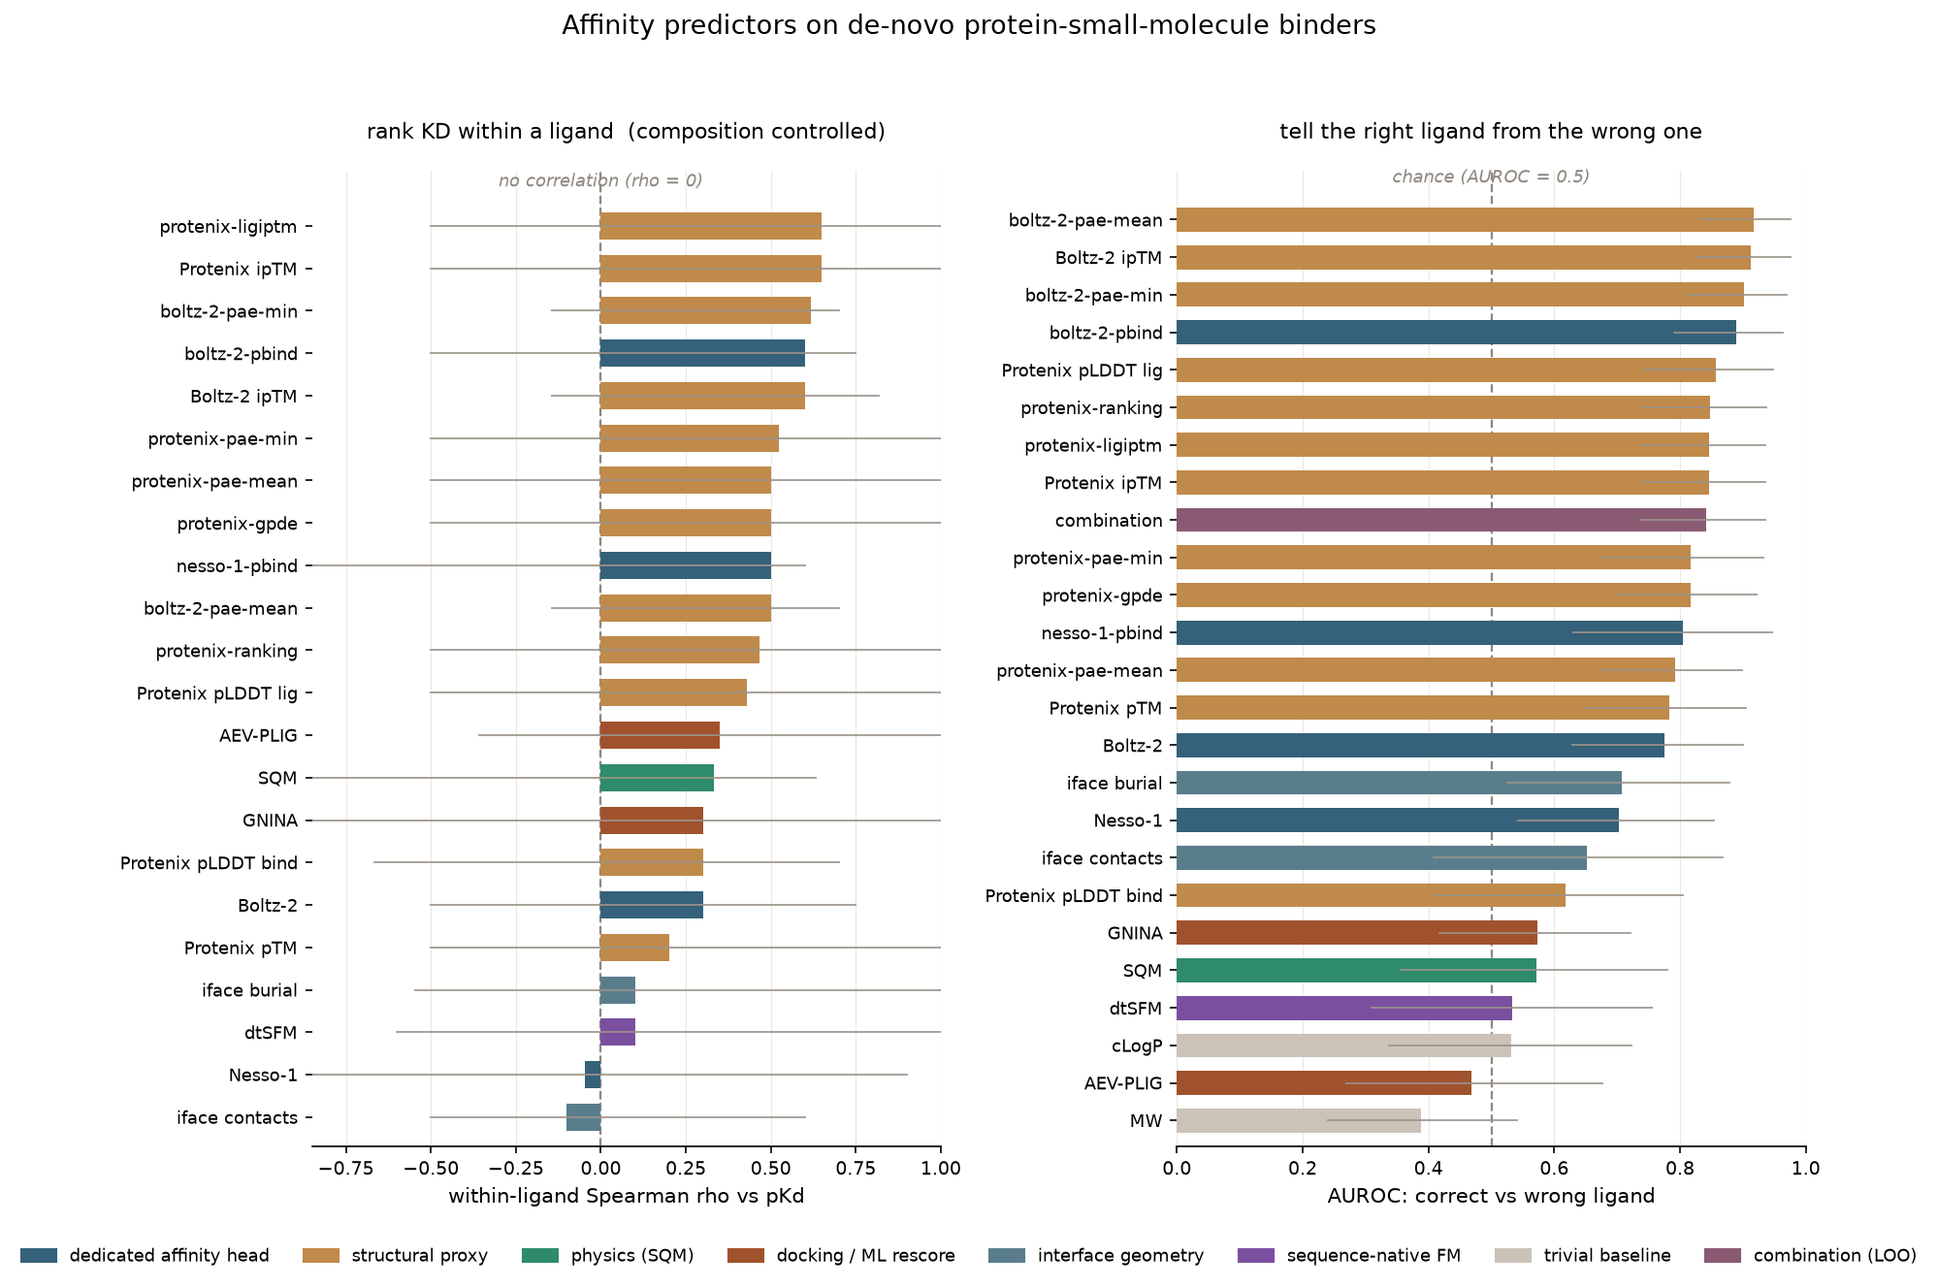
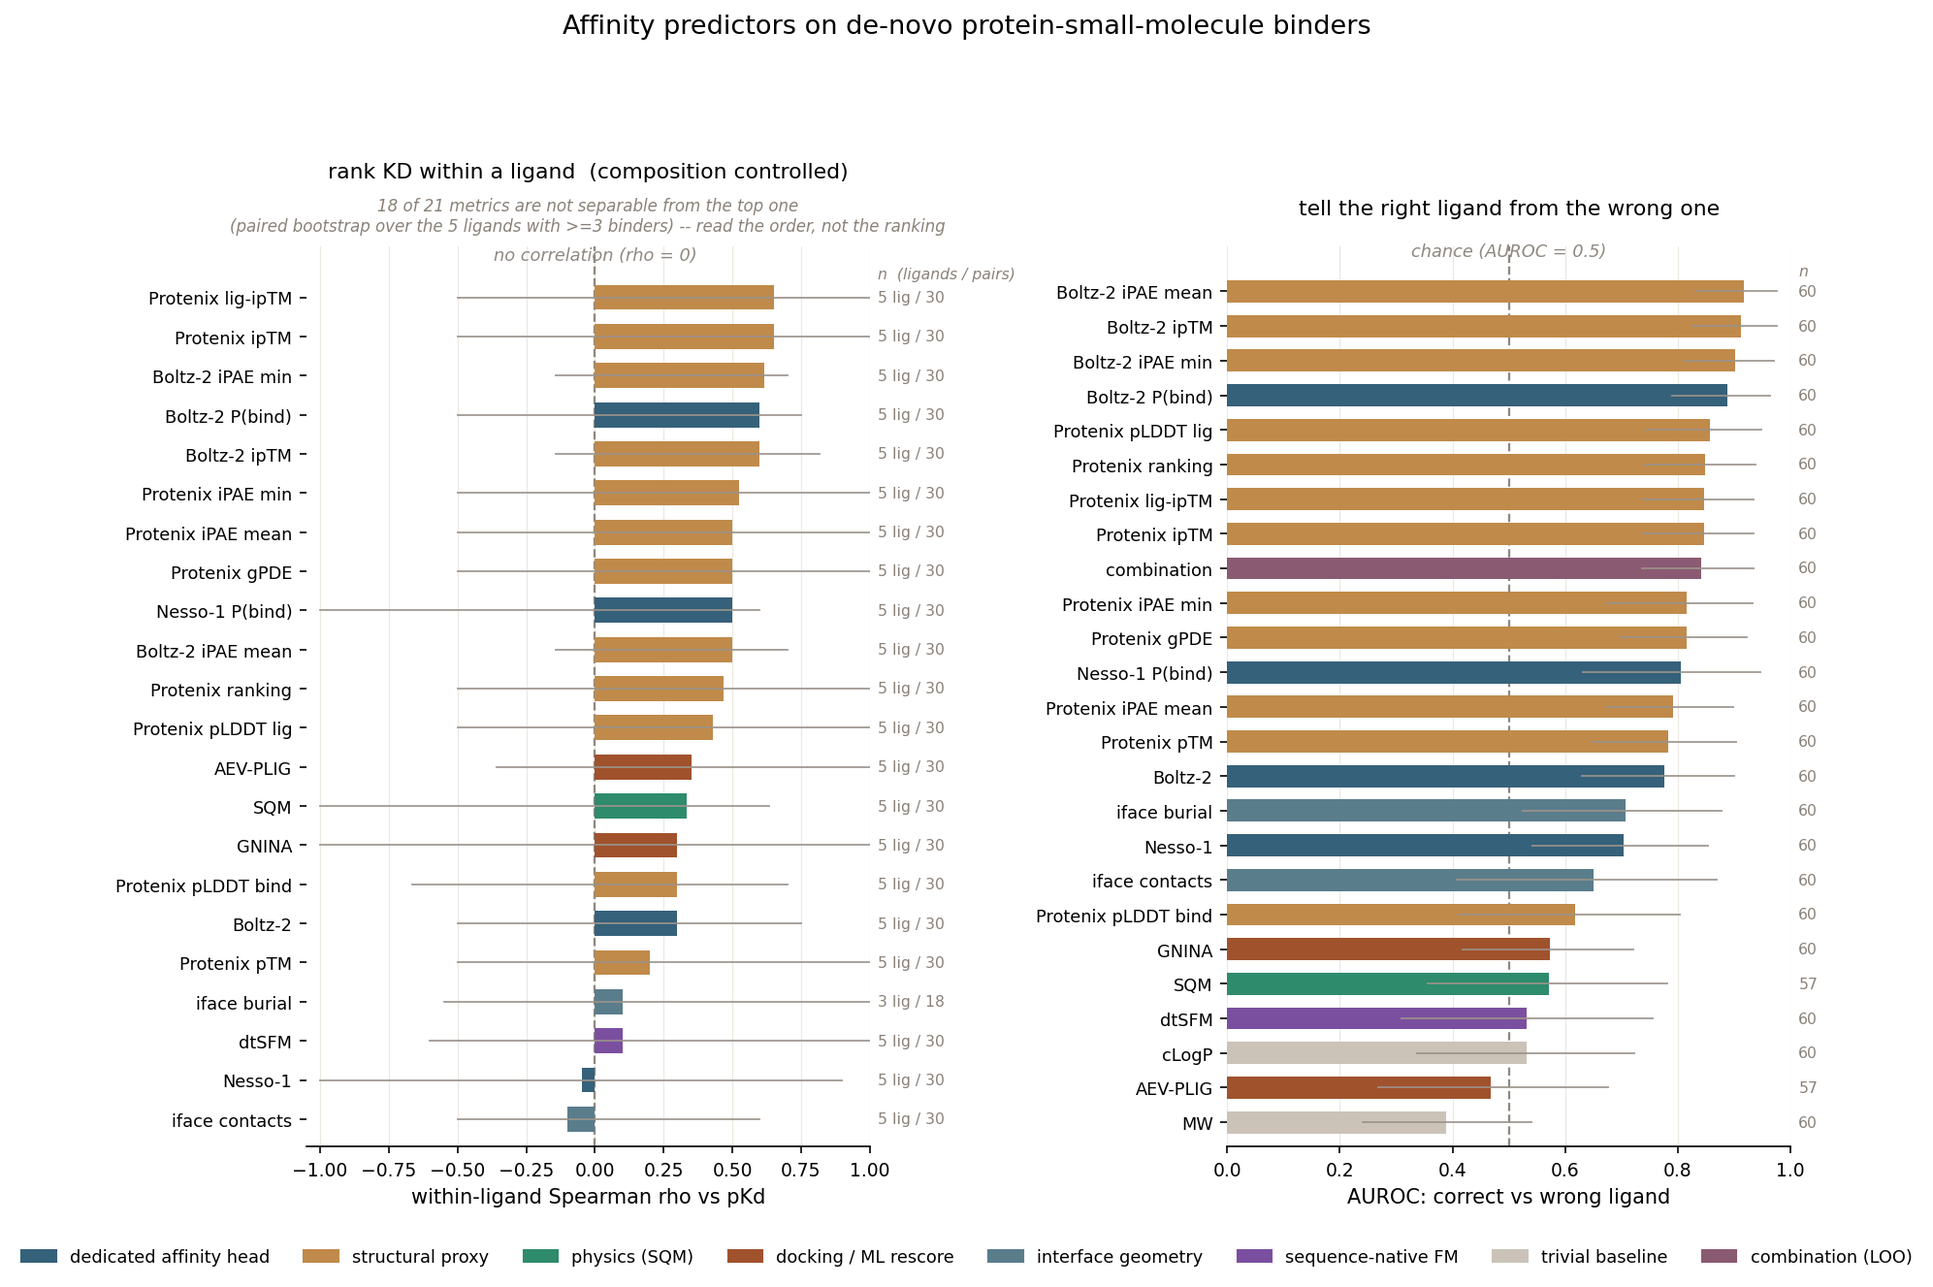
Report n and separability, and fix a positional-pairing bug
The within-ligand median rests on 5 ligands / 30 pairs, not the 60 pairs in
the benchmark, and the figure did not say so. Every bar now carries its n,
score.py prints n_lig and n_pairs, and both state that a ligand with fewer
than 3 binders cannot support a rank and is dropped.

New separability table: a paired bootstrap over ligands shows 18 of 21
metrics are not distinguishable from the top one, so the left panel is an
ordering of families, not a ranking of metrics. The figure prints that count
so it cannot drift from the CLI.

While writing it, the first version paired two metrics by list position.
interface-ligburial has 3 ligand groups against the best metric's 5, so it
was being compared on 5 slots of a 3-element list -- different ligands, no
error raised. per_ligand_rho now keys by ligand and separability intersects,
which moves that delta from +0.55 to +0.60. A test pins the keying.

Also: widen the left axis to -1.05, since CIs reaching rho = -1 were being
clipped and understating the spread, and finish the PRETTY name map so the
panel stops mixing display names with raw column names.

diff --git a/scripts/make_figure.py b/scripts/make_figure.py
@@ -17,6 +17,7 @@ from score import (
     bootstrap_ci,
     combine_loo,
     load,
+    per_ligand_rho,
     within_ligand_rho,
 )
 
@@ -42,15 +43,46 @@ PRETTY = {"boltz-2": "Boltz-2", "nesso-1": "Nesso-1", "boltz-2-iptm": "Boltz-2 i
           "rowan-sqm": "SQM", "rowan-gnina": "GNINA", "rowan-aevplig": "AEV-PLIG",
           "interface-ncontacts": "iface contacts", "interface-ligburial": "iface burial",
           "protenix-ptm": "Protenix pTM", "protenix-plddt-binder": "Protenix pLDDT bind",
-          "protenix-plddt-ligand": "Protenix pLDDT lig"}
+          "protenix-plddt-ligand": "Protenix pLDDT lig",
+          "boltz-2-pbind": "Boltz-2 P(bind)", "nesso-1-pbind": "Nesso-1 P(bind)",
+          "boltz-2-pae-min": "Boltz-2 iPAE min", "boltz-2-pae-mean": "Boltz-2 iPAE mean",
+          "protenix-pae-min": "Protenix iPAE min", "protenix-pae-mean": "Protenix iPAE mean",
+          "protenix-ligiptm": "Protenix lig-ipTM", "protenix-gpde": "Protenix gPDE",
+          "protenix-ranking": "Protenix ranking"}
+
+
+def not_separable(rows, methods, kmin=3, n_boot=4000):
+    """How many metrics the top one is NOT distinguishable from (paired bootstrap over the shared
+    ligands). Mirrors score.py's separability table so the figure cannot drift from the CLI."""
+    import random
+    import statistics
+    per_metric = {m: per_ligand_rho(rows, m, kmin)[0] for m in methods}
+    per_metric = {m: p for m, p in per_metric.items() if len(p) >= 2}
+    best = max(per_metric, key=lambda m: statistics.median(per_metric[m].values()))
+    bper = per_metric[best]
+    n_ns = 0
+    for m, per in per_metric.items():
+        if m == best:
+            continue
+        shared = sorted(set(per) & set(bper))
+        if len(shared) < 2:
+            continue
+        bv = [bper[k] for k in shared]; mv = [per[k] for k in shared]
+        rng = random.Random(0); k = len(shared)
+        d = sorted(statistics.median([bv[i] for i in idx]) - statistics.median([mv[i] for i in idx])
+                   for idx in ([rng.randrange(k) for _ in range(k)] for _ in range(n_boot)))
+        if d[int(0.025 * n_boot)] <= 0:
+            n_ns += 1
+    return n_ns, len(per_metric) - 1, len(bper)
 
 
 def _wlig_ci(per, n):
     import random
     import statistics
     rng = random.Random(0)
-    boots = sorted(statistics.median([per[rng.randrange(n)] for _ in range(n)]) for _ in range(2000))
-    return statistics.median(per), boots[int(0.025 * len(boots))], boots[int(0.975 * len(boots))]
+    v = list(per.values()) if isinstance(per, dict) else list(per)
+    boots = sorted(statistics.median([v[rng.randrange(n)] for _ in range(n)]) for _ in range(2000))
+    return statistics.median(v), boots[int(0.025 * len(boots))], boots[int(0.975 * len(boots))]
 
 
 def stats(rows, methods):
@@ -60,24 +92,30 @@ def stats(rows, methods):
     wlig, spec = [], []
     for m in methods:
         sgn = -1 if m in LOWER_BETTER else 1
-        med, per, ng = within_ligand_rho(rows, m)
+        med, per, ng, npairs = within_ligand_rho(rows, m)
         if med is not None:
-            wlig.append((PRETTY.get(m, m), *_wlig_ci(per, ng), CAT[m]))
+            wlig.append((PRETTY.get(m, m), *_wlig_ci(per, ng), CAT[m], f"{ng} lig / {npairs}"))
         sx, sl = zip(*[(sgn * r[m], r["is_binder"]) for r in rows if r.get(m) is not None], strict=True)
         spec.append((PRETTY.get(m, m), auroc(list(sx), list(sl)),
-                     *bootstrap_ci(list(sx), list(sl), auroc), CAT[m]))
+                     *bootstrap_ci(list(sx), list(sl), auroc), CAT[m], f"{len(sx)}"))
     (_, _), (sp, sy) = combine_loo(rows)
-    spec.append(("combination", auroc(sp, sy), *bootstrap_ci(sp, sy, auroc), "combo"))
-    return wlig, spec
+    spec.append(("combination", auroc(sp, sy), *bootstrap_ci(sp, sy, auroc), "combo", f"{len(sy)}"))
+    return wlig, spec, not_separable(rows, methods)
 
 
-def bars(ax, data, ref, ref_label, xlabel, xlim):
+def bars(ax, data, ref, ref_label, xlabel, xlim, n_header):
     data.sort(key=lambda t: t[1])
     n = len(data)
     ax.grid(axis="x", color="#ece8e2", lw=0.6, zorder=0)
-    for y, (_lab, v, lo, hi, cat) in enumerate(data):
+    for y, (_lab, v, lo, hi, cat, nlab) in enumerate(data):
         ax.barh(y, v, color=COL[cat], height=0.64, zorder=3)
         ax.plot([lo, hi], [y, y], color=WHISK, lw=0.9, alpha=0.9, zorder=4)
+        # the n behind each bar, in the plot's own x units so it never collides with the whisker
+        ax.annotate(nlab, xy=(xlim[1], y), xytext=(4, 0), textcoords="offset points",
+                    ha="left", va="center", fontsize=7.5, color="#8a8178", annotation_clip=False)
+    ax.annotate(n_header, xy=(xlim[1], n - 0.4), xytext=(4, 0), textcoords="offset points",
+                ha="left", va="center", fontsize=7.5, color="#8a8178", fontstyle="italic",
+                annotation_clip=False)
     ax.axvline(ref, ls="--", lw=1.1, color=REF, zorder=2)
     ax.annotate(ref_label, xy=(ref, n - 0.5), xytext=(0, 7), textcoords="offset points",
                 ha="center", va="bottom", fontsize=8.5, color=REF, fontstyle="italic")
@@ -89,11 +127,19 @@ def bars(ax, data, ref, ref_label, xlabel, xlim):
         ax.spines[s].set_visible(False)
 
 
-def render(wlig, spec, out, height):
+def render(wlig, spec, ns, out, height):
     fig, (a, b) = plt.subplots(1, 2, figsize=(12, height))
-    bars(a, wlig, 0.0, "no correlation (rho = 0)", "within-ligand Spearman rho vs pKd", (-0.85, 1.0))
-    bars(b, spec, 0.5, "chance (AUROC = 0.5)", "AUROC: correct vs wrong ligand", (0.0, 1.0))
-    a.set_title("rank KD within a ligand  (composition controlled)", fontsize=10.5, pad=16)
+    # -1.05 not -0.85: several CIs reach rho = -1, and a clipped whisker understates the spread.
+    bars(a, wlig, 0.0, "no correlation (rho = 0)", "within-ligand Spearman rho vs pKd",
+         (-1.05, 1.0), "n  (ligands / pairs)")
+    bars(b, spec, 0.5, "chance (AUROC = 0.5)", "AUROC: correct vs wrong ligand", (0.0, 1.0), "n")
+    a.set_title("rank KD within a ligand  (composition controlled)", fontsize=10.5, pad=34)
+    n_ns, n_cmp, n_lig = ns
+    a.annotate(f"{n_ns} of {n_cmp} metrics are not separable from the top one\n"
+               f"(paired bootstrap over the {n_lig} ligands with >=3 binders) -- read the order, "
+               "not the ranking",
+               xy=(0.5, 1.0), xycoords="axes fraction", xytext=(0, 6), textcoords="offset points",
+               ha="center", va="bottom", fontsize=8, color="#8a8178", fontstyle="italic")
     b.set_title("tell the right ligand from the wrong one", fontsize=10.5, pad=16)
     present = {d[4] for d in spec}
     cats = [c for c in ("aff", "prox", "phys", "dock", "iface", "seq", "base", "combo") if c in present]
@@ -101,7 +147,7 @@ def render(wlig, spec, out, height):
     fig.legend(handles, [LABEL[c] for c in cats], fontsize=8.5, loc="lower center",
                ncol=len(cats), frameon=False, bbox_to_anchor=(0.5, 0.0))
     fig.suptitle("Affinity predictors on de-novo protein-small-molecule binders", fontsize=13, y=0.99)
-    fig.tight_layout(rect=(0, 0.04, 1, 0.96))
+    fig.tight_layout(rect=(0, 0.04, 1, 0.93))
     fig.savefig(out, dpi=150, bbox_inches="tight")
     print("saved", out)
 

diff --git a/scripts/score.py b/scripts/score.py
@@ -102,22 +102,34 @@ def regression(rows, methods):
         print(f"{m:20s}{f'{rho:+.2f} [{lo:+.2f},{up:+.2f}]':>22s}{sgn * pearson(xs, ys):>+9.2f}{rm:>7s}")
 
 
-def within_ligand_rho(rows, m, kmin=3):
-    """Per-ligand Spearman(metric, pKd) among the de-novo proteins binding that ligand, then the
-    median across ligand groups. Controls for ligand composition: a ligand-only property (cLogP, MW)
-    is constant within a group, so it drops out. Returns (median, [per-group rho], n_groups)."""
+def per_ligand_rho(rows, m, kmin=3):
+    """{ligand: Spearman(metric, pKd)} over the de-novo proteins binding that ligand, plus the
+    pair count. Keyed by ligand, not positional, because two metrics are not scored on the same
+    ligand set -- pairing them by list position silently compares different ligands."""
     import collections
-    import statistics
     sgn = -1 if m in LOWER_BETTER else 1
     groups = collections.defaultdict(list)
     for r in rows:
         if r["is_binder"] == 1 and r["pKd"] is not None and r.get(m) is not None:
             groups[r["ligand"]].append((sgn * r[m], r["pKd"]))
-    per = [spearman([x for x, _ in g], [y for _, y in g])
-           for g in groups.values() if len(g) >= kmin and len({x for x, _ in g}) > 1]
+    used = {k: g for k, g in groups.items()
+            if len(g) >= kmin and len({x for x, _ in g}) > 1}
+    per = {k: spearman([x for x, _ in g], [y for _, y in g]) for k, g in used.items()}
+    return per, sum(len(g) for g in used.values())
+
+
+def within_ligand_rho(rows, m, kmin=3):
+    """Per-ligand Spearman then the median across ligand groups. Controls for ligand composition:
+    a ligand-only property (cLogP, MW) is constant within a group, so it drops out.
+
+    Returns (median, {ligand: rho}, n_groups, n_pairs). n_pairs is the number of measured
+    (protein, ligand) pairs that actually reach the median -- NOT the 60 pairs in the benchmark.
+    Most ligands here have one or two binders and contribute nothing to a within-ligand rank."""
+    import statistics
+    per, n_pairs = per_ligand_rho(rows, m, kmin)
     if len(per) < 2:
-        return None, per, len(per)
-    return statistics.median(per), per, len(per)
+        return None, per, len(per), n_pairs
+    return statistics.median(per.values()), per, len(per), n_pairs
 
 
 def regression_within_ligand(rows, methods, kmin=3):
@@ -126,17 +138,76 @@ def regression_within_ligand(rows, methods, kmin=3):
     print("\n== Regression (within-ligand): rank pKd among proteins binding the SAME ligand ==")
     print("   controls for ligand composition (a ligand-only score is constant per group, so it "
           f"drops out); median rho over ligands with >= {kmin} binders, direction-corrected")
-    print(f"{'method':20s}{'median rho [95% CI]':>24s}{'n_lig':>7s}")
+    print(f"{'method':20s}{'median rho [95% CI]':>24s}{'n_lig':>7s}{'n_pairs':>9s}")
     for m in methods:
-        med, per, n = within_ligand_rho(rows, m, kmin)
+        med, per, n, n_pairs = within_ligand_rho(rows, m, kmin)
         if med is None:
             continue
+        vals = list(per.values())
         rng = random.Random(0); boots = []
         for _ in range(2000):
-            boots.append(statistics.median([per[rng.randrange(n)] for _ in range(n)]))
+            boots.append(statistics.median([vals[rng.randrange(n)] for _ in range(n)]))
         boots.sort()
         lo, hi = boots[int(0.025 * len(boots))], boots[int(0.975 * len(boots))]
-        print(f"{m:20s}{f'{med:+.2f} [{lo:+.2f},{hi:+.2f}]':>24s}{n:>7d}")
+        print(f"{m:20s}{f'{med:+.2f} [{lo:+.2f},{hi:+.2f}]':>24s}{n:>7d}{n_pairs:>9d}")
+    print("   n_lig is the number of ligands the median is taken over, n_pairs the measured "
+          "points behind it.\n   Neither is 60: a ligand with fewer than "
+          f"{kmin} binders cannot support a rank and is dropped.")
+
+
+def separability(rows, methods, kmin=3, n_boot=4000):
+    """Which metrics are actually distinguishable from the best one, and which are not.
+
+    A table of point estimates reads as a ranking even when the intervals swamp the gaps -- the
+    same objection that sinks most published score comparisons, and it bites hard here: the
+    within-ligand median is taken over single-digit numbers of ligands.
+
+    Paired bootstrap resampling LIGANDS (the independent unit, not pairs), restricted to the
+    ligands BOTH metrics scored, so the two medians always describe the same groups.
+    """
+    import random
+    import statistics
+
+    per_metric = {}
+    for m in methods:
+        per, _ = per_ligand_rho(rows, m, kmin)
+        if len(per) >= 2:
+            per_metric[m] = per
+    if len(per_metric) < 2:
+        return
+
+    best = max(per_metric, key=lambda m: statistics.median(per_metric[m].values()))
+    bper = per_metric[best]
+    bmed = statistics.median(bper.values())
+    print("\n== Separability: is anything actually worse than the best metric? ==")
+    print(f"   paired bootstrap over the ligand groups BOTH metrics scored (best has {len(bper)})")
+    print(f"   best = {best} (median rho {bmed:+.2f})")
+    print(f"{'method':20s}{'median rho':>12s}{'shared':>8s}"
+          f"{'delta vs best [95% CI]':>28s}{'separable?':>12s}")
+    for m, per in sorted(per_metric.items(), key=lambda kv: -statistics.median(kv[1].values())):
+        med = statistics.median(per.values())
+        if m == best:
+            print(f"{m:20s}{med:>+12.2f}{len(per):>8d}{'-':>28s}{'(best)':>12s}")
+            continue
+        shared = sorted(set(per) & set(bper))
+        if len(shared) < 2:
+            print(f"{m:20s}{med:>+12.2f}{len(shared):>8d}{'too few shared ligands':>28s}{'-':>12s}")
+            continue
+        bv = [bper[k] for k in shared]; mv = [per[k] for k in shared]
+        rng = random.Random(0); k = len(shared); deltas = []
+        for _ in range(n_boot):
+            idx = [rng.randrange(k) for _ in range(k)]
+            deltas.append(statistics.median([bv[i] for i in idx])
+                          - statistics.median([mv[i] for i in idx]))
+        deltas.sort()
+        lo, hi = deltas[int(0.025 * n_boot)], deltas[int(0.975 * n_boot)]
+        d = statistics.median(bv) - statistics.median(mv)
+        print(f"{m:20s}{med:>+12.2f}{k:>8d}"
+              f"{f'{d:+.2f} [{lo:+.2f},{hi:+.2f}]':>28s}{'yes' if lo > 0 else 'NO':>12s}")
+    print("   'NO' = the interval spans zero: the point estimates differ, the metrics do not.")
+    print(f"   Uncorrected for the {len(per_metric) - 1} comparisons made, so a lone 'yes' here is "
+          "weak evidence; read the column as\n   'almost nothing in this table is separable', "
+          "which is the honest summary of a 5-ligand median.")
 
 
 def specificity(rows, methods):
@@ -201,6 +272,7 @@ def main():
     rows, methods = load()
     regression(rows, methods)
     regression_within_ligand(rows, methods)
+    separability(rows, methods)
     specificity(rows, methods)
     combine(rows)
 

diff --git a/tests/test_benchmark.py b/tests/test_benchmark.py
@@ -85,11 +85,30 @@ def test_dataset_validated():
 def test_within_ligand_drops_constant_ligand_properties():
     rows, _ = score.load()
     # cLogP is a ligand-only property: constant within a ligand group, so it yields no within-ligand rho
-    med, _per, n = score.within_ligand_rho(rows, "clogp")
-    assert med is None and n == 0
+    med, _per, n, npairs = score.within_ligand_rho(rows, "clogp")
+    assert med is None and n == 0 and npairs == 0
     # an interface metric varies across the proteins binding one ligand, so it does
-    med2, _per2, n2 = score.within_ligand_rho(rows, "protenix-iptm")
+    med2, _per2, n2, npairs2 = score.within_ligand_rho(rows, "protenix-iptm")
     assert n2 >= 2 and med2 is not None
+    # n_pairs must be the points actually behind the median, not the size of the benchmark
+    assert n2 * 3 <= npairs2 < len(rows), "n_pairs should be >= 3 per group and well under 60"
+
+
+def test_per_ligand_rho_is_keyed_by_ligand():
+    """The separability bootstrap pairs two metrics by ligand. If the keys were positional, a
+    metric scored on 3 ligands would be compared against 3 arbitrary slots of a 5-ligand metric --
+    silently comparing different ligands. Keys must be the ligands themselves."""
+    rows, _ = score.load()
+    ligands = {r["ligand"] for r in rows}
+    per, npairs = score.per_ligand_rho(rows, "protenix-iptm")
+    assert set(per) <= ligands and len(per) >= 2
+    assert npairs == sum(
+        1 for r in rows
+        if r["ligand"] in per and r["is_binder"] == 1 and r["pKd"] is not None
+        and r.get("protenix-iptm") is not None)
+    # a metric with fewer scored groups must intersect, not line up by position
+    sparse, _ = score.per_ligand_rho(rows, "interface-ligburial")
+    assert set(sparse) <= set(per), "sparser metric should be a subset, so the intersection is real"
 
 
 def test_every_prediction_joins_to_truth():

diff --git a/README.md b/README.md
@@ -35,6 +35,13 @@ transparency.
   affinity heads trail (Boltz-2 +0.30, Nesso-1 -0.05). This is the same confidence family (iPTM, pTM,
   pLDDT, interface-PAE) that ranks KD on de-novo *protein* sets. CIs are very wide (only 5 ligand
   groups, 3 to 9 binders each), so the ordering is suggestive, not decisive.
+- **Almost none of that ordering is statistically separable, and the table says so.** `score.py`
+  runs a paired bootstrap over the ligands *both* metrics scored, and **18 of 21** metrics are not
+  distinguishable from the top one. The only three the top metric beats with an interval clear of
+  zero are Nesso-1 P(bind), SQM, and Nesso-1 -- and that is before correcting for 21 comparisons,
+  so even those are weak. Read the left panel as a rough ordering of families, never as a ranking
+  of individual metrics: "Protenix ipTM +0.65 beats Boltz-2 ipTM +0.60" is not a finding, it is
+  two medians over the same five ligands.
 - **Specificity also belongs to the co-folders.** On telling the correct ligand from the wrong one,
   the interface-confidence metrics lead: Boltz-2 / Protenix ipTM 0.85 to 0.91, Protenix pLDDT-ligand
   0.86, pTM 0.79. cLogP, dtSFM, and the physics/ML rescorers are near chance. A pure-geometry pose
@@ -52,6 +59,13 @@ transparency.
 | tell right from wrong ligand (AUROC) | 0.91 | 0.53 | 0.84 |
 
 ## Caveats
+
+**The within-ligand axis rests on far less data than "60 pairs" suggests.** Only 5 of the 19
+ligands have the >= 3 protein binders a within-ligand rank needs, so that median is taken over
+**5 ligands / 30 pairs** for most metrics (3 ligands / 18 pairs for `interface-ligburial`, which is
+missing some poses). The figure prints that n beside every bar and `score.py` prints it as `n_lig`
+and `n_pairs`, because a bar without its n reads as a ranking. The other 14 ligands contribute to
+the AUROC panel (all 60 pairs) but not to the affinity panel.
 
 Small n (49 + 11): CIs are wide and orderings are suggestive. The 11 negatives are confirmed
 non-binders from a handful of designed proteins. This small n reflects the field, not the search: a
